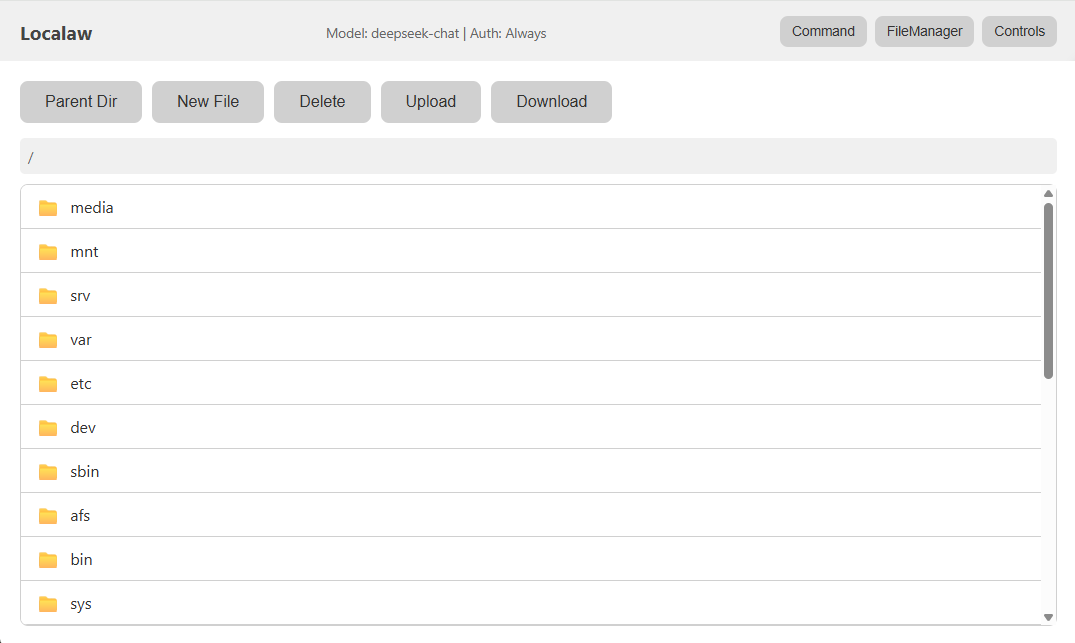
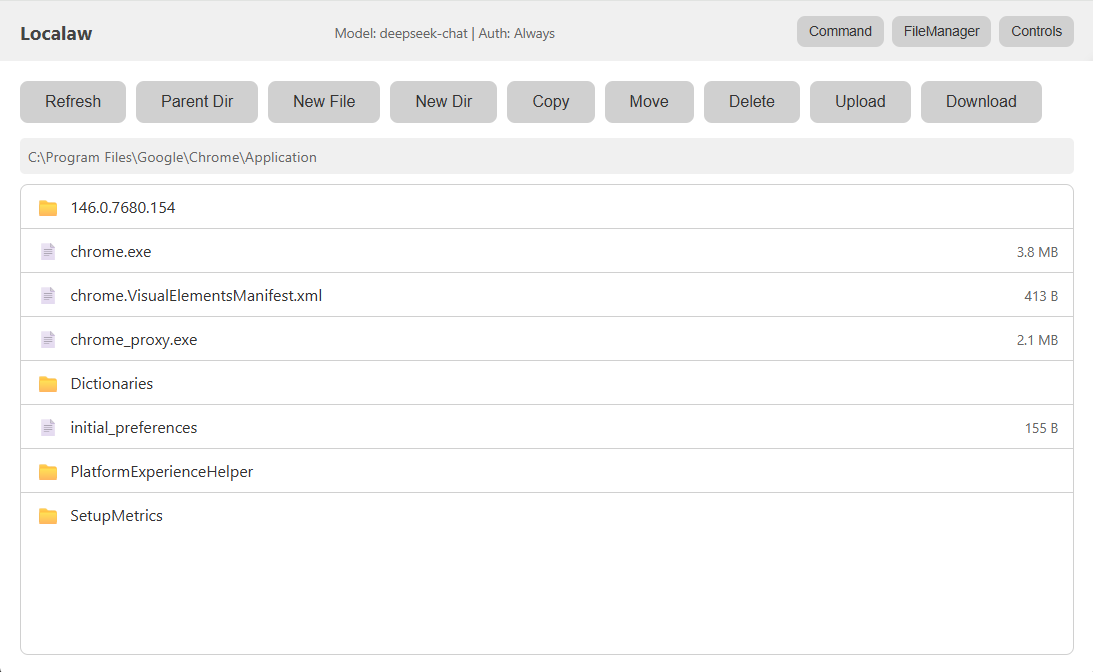
Add newdir/copy/move func in file manager, and update readme

diff --git a/web/index.html b/web/index.html
@@ -548,8 +548,12 @@
 
     <div class="files-panel" id="filesPanel">
         <div class="files-toolbar">
+            <button class="btn btn-secondary" id="filesRefreshBtn">Refresh</button>
             <button class="btn btn-secondary" id="filesParentBtn">Parent Dir</button>
             <button class="btn btn-secondary" id="filesNewBtn">New File</button>
+            <button class="btn btn-secondary" id="filesNewDirBtn">New Dir</button>
+            <button class="btn btn-secondary" id="filesCopyBtn">Copy</button>
+            <button class="btn btn-secondary" id="filesMoveBtn">Move</button>
             <button class="btn btn-secondary" id="filesDeleteBtn">Delete</button>
             <button class="btn btn-secondary" id="filesUploadBtn">Upload</button>
             <button class="btn btn-secondary" id="filesDownloadBtn">Download</button>
@@ -566,6 +570,17 @@
             <div class="files-modal-actions">
                 <button class="btn btn-secondary" id="filesModalCancel">Cancel</button>
                 <button class="btn btn-primary" id="filesModalConfirm">Create</button>
+            </div>
+        </div>
+    </div>
+
+    <div class="files-modal" id="filesPathModal">
+        <div class="files-modal-content">
+            <h3 id="filesPathModalTitle">Copy/Move</h3>
+            <input type="text" id="filesPathModalInput" placeholder="Enter destination path...">
+            <div class="files-modal-actions">
+                <button class="btn btn-secondary" id="filesPathModalCancel">Cancel</button>
+                <button class="btn btn-primary" id="filesPathModalConfirm">Confirm</button>
             </div>
         </div>
     </div>
@@ -1109,9 +1124,15 @@
         const filesModalConfirm = document.getElementById('filesModalConfirm');
         const filesModalCancel = document.getElementById('filesModalCancel');
         const filesUploadInput = document.getElementById('filesUploadInput');
+        const filesPathModal = document.getElementById('filesPathModal');
+        const filesPathModalTitle = document.getElementById('filesPathModalTitle');
+        const filesPathModalInput = document.getElementById('filesPathModalInput');
+        const filesPathModalConfirm = document.getElementById('filesPathModalConfirm');
+        const filesPathModalCancel = document.getElementById('filesPathModalCancel');
 
         let selectedFile = null;
         let filesModalCallback = null;
+        let filesPathModalCallback = null;
 
         filesToggleBtn.addEventListener('click', (e) => {
             e.stopPropagation();
@@ -1186,6 +1207,10 @@
             element.classList.add('selected');
             selectedFile = item;
         }
+
+        document.getElementById('filesRefreshBtn').addEventListener('click', async () => {
+            await loadFilesList();
+        });
 
         document.getElementById('filesParentBtn').addEventListener('click', async () => {
             try {
@@ -1287,6 +1312,117 @@
         filesModalInput.addEventListener('keypress', (e) => {
             if (e.key === 'Enter') {
                 filesModalConfirm.click();
+            }
+        });
+
+        document.getElementById('filesNewDirBtn').addEventListener('click', () => {
+            filesModalTitle.textContent = 'New Directory';
+            filesModalInput.value = 'NewDir';
+            filesModalConfirm.textContent = 'Create';
+            filesModalCallback = async (dirname) => {
+                if (!dirname) dirname = 'NewDir';
+                try {
+                    const formData = new FormData();
+                    formData.append('dirname', dirname);
+                    const res = await fetch('/api/files/mkdir', { method: 'POST', body: formData });
+                    const data = await res.json();
+                    if (data.error) {
+                        alert('Error: ' + data.error);
+                    } else {
+                        await loadFilesList();
+                    }
+                } catch (err) {
+                    alert('Error: ' + err.message);
+                }
+            };
+            filesModal.classList.add('show');
+            filesModalInput.focus();
+            filesModalInput.select();
+        });
+
+        document.getElementById('filesCopyBtn').addEventListener('click', () => {
+            if (!selectedFile) {
+                alert('Please select a file or directory to copy.');
+                return;
+            }
+            const srcPath = filesPath.textContent + '/' + selectedFile.name;
+            filesPathModalTitle.textContent = 'Copy: ' + selectedFile.name;
+            filesPathModalInput.value = srcPath;
+            filesPathModalConfirm.textContent = 'Copy';
+            filesPathModalCallback = async (destPath) => {
+                if (!destPath) {
+                    alert('Please enter a destination path.');
+                    return;
+                }
+                try {
+                    const formData = new FormData();
+                    formData.append('src', srcPath);
+                    formData.append('dest', destPath);
+                    const res = await fetch('/api/files/copy', { method: 'POST', body: formData });
+                    const data = await res.json();
+                    if (data.error) {
+                        alert('Error: ' + data.error);
+                    } else {
+                        await loadFilesList();
+                    }
+                } catch (err) {
+                    alert('Error: ' + err.message);
+                }
+            };
+            filesPathModal.classList.add('show');
+            filesPathModalInput.focus();
+            filesPathModalInput.select();
+        });
+
+        document.getElementById('filesMoveBtn').addEventListener('click', () => {
+            if (!selectedFile) {
+                alert('Please select a file or directory to move.');
+                return;
+            }
+            const srcPath = filesPath.textContent + '/' + selectedFile.name;
+            filesPathModalTitle.textContent = 'Move: ' + selectedFile.name;
+            filesPathModalInput.value = srcPath;
+            filesPathModalConfirm.textContent = 'Move';
+            filesPathModalCallback = async (destPath) => {
+                if (!destPath) {
+                    alert('Please enter a destination path.');
+                    return;
+                }
+                try {
+                    const formData = new FormData();
+                    formData.append('src', srcPath);
+                    formData.append('dest', destPath);
+                    const res = await fetch('/api/files/move', { method: 'POST', body: formData });
+                    const data = await res.json();
+                    if (data.error) {
+                        alert('Error: ' + data.error);
+                    } else {
+                        await loadFilesList();
+                    }
+                } catch (err) {
+                    alert('Error: ' + err.message);
+                }
+            };
+            filesPathModal.classList.add('show');
+            filesPathModalInput.focus();
+            filesPathModalInput.select();
+        });
+
+        filesPathModalCancel.addEventListener('click', () => {
+            filesPathModal.classList.remove('show');
+        });
+
+        filesPathModalConfirm.addEventListener('click', () => {
+            const value = filesPathModalInput.value.trim();
+            if (filesPathModalCallback) {
+                filesPathModalCallback(value);
+            }
+            filesPathModal.classList.remove('show');
+        });
+
+        filesPathModalInput.addEventListener('keypress', (e) => {
+            if (e.key === 'Enter') {
+                filesPathModalConfirm.click();
             }
         });
 

diff --git a/src/web_server.py b/src/web_server.py
@@ -471,6 +471,57 @@ class WebServer:
             except Exception as e:
                 return JSONResponse({"error": str(e)}, status_code=500)
 
+        @self.app.post("/api/files/mkdir")
+        async def make_dir(dirname: str = Form(...)):
+            try:
+                dir_path = self.current_path / dirname
+                dir_path.mkdir()
+                return JSONResponse({
+                    "path": str(dir_path),
+                    "error": None
+                })
+            except Exception as e:
+                return JSONResponse({"error": str(e)}, status_code=500)
+
+        @self.app.post("/api/files/copy")
+        async def copy_file(src: str = Form(...), dest: str = Form(...)):
+            try:
+                import shutil
+                src_path = Path(src)
+                dest_path = Path(dest)
+                if not src_path.exists():
+                    return JSONResponse({"error": "Source not found"}, status_code=404)
+                if src_path.is_dir():
+                    shutil.copytree(src_path, dest_path)
+                else:
+                    dest_path.parent.mkdir(parents=True, exist_ok=True)
+                    shutil.copy2(src_path, dest_path)
+                return JSONResponse({
+                    "src": str(src_path),
+                    "dest": str(dest_path),
+                    "error": None
+                })
+            except Exception as e:
+                return JSONResponse({"error": str(e)}, status_code=500)
+
+        @self.app.post("/api/files/move")
+        async def move_file(src: str = Form(...), dest: str = Form(...)):
+            try:
+                import shutil
+                src_path = Path(src)
+                dest_path = Path(dest)
+                if not src_path.exists():
+                    return JSONResponse({"error": "Source not found"}, status_code=404)
+                dest_path.parent.mkdir(parents=True, exist_ok=True)
+                shutil.move(str(src_path), str(dest_path))
+                return JSONResponse({
+                    "src": str(src_path),
+                    "dest": str(dest_path),
+                    "error": None
+                })
+            except Exception as e:
+                return JSONResponse({"error": str(e)}, status_code=500)
+
     def process_message(self, message: str):
         llm_response = self.llm.send_message(message)
         commands = CommandParser.parse(llm_response) or []

diff --git a/README.md b/README.md
@@ -67,7 +67,8 @@ Then open http://127.0.0.1:8880 in your browser.
 - **Command panel**: Execute shell commands directly
 - **FileManager**:
   - Browse directories (click to select, double-click to enter)
-  - Create new files, delete files/directories
+  - Refresh, create new files, create new directories
+  - Copy, move, delete files/directories
   - Upload and download files
 
 Click the buttons on the right side of the header to open panels. Only one panel can be open at a time.

diff --git a/README_zh.md b/README_zh.md
@@ -65,7 +65,8 @@ python -m src.main --mode web
 - **Command 命令面板**：直接输入 shell 命令执行
 - **FileManager 文件管理器**：
   - 浏览目录（单击选中，双击进入目录）
-  - 新建文件、删除文件/目录
+  - 刷新、新建文件、新建目录
+  - 复制、移动、删除文件/目录
   - 上传和下载文件
 
 点击标题栏右侧按钮可打开对应面板，同时只能打开一个面板。
